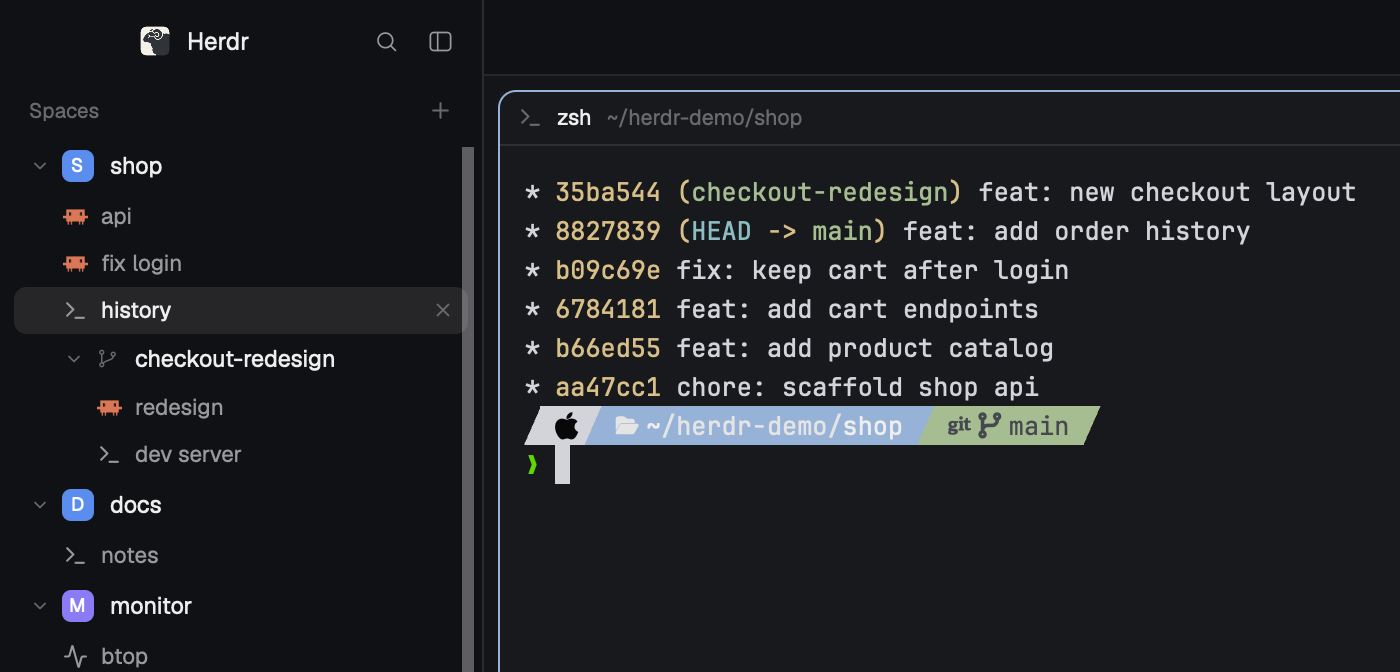
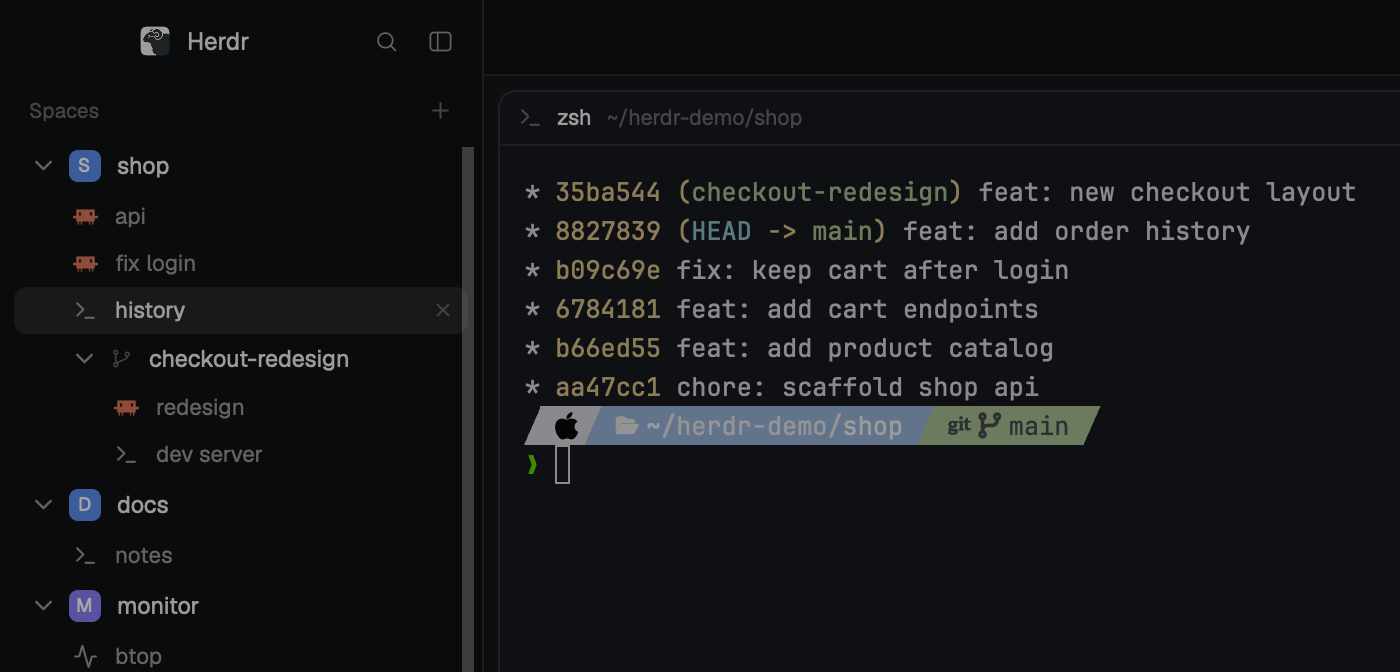
style: enlarge fold arrows in the sidebar

diff --git a/mods/nested-tabs/main.js b/mods/nested-tabs/main.js
@@ -28,7 +28,7 @@ function place(s, ps) {
 }
 const rowHeight = ({ tree }) => (tree ? 28 : 30);
 // Left offsets inside a row, so a child's icon sits under its parent's avatar.
-const CHEVRON = 14;
+const CHEVRON = 18;
 const LEAD_GAP = 5;
 const TREE_INDENT = CHEVRON + LEAD_GAP;
 const ROW_PAD = 8;
@@ -390,10 +390,11 @@ export default class Spaces extends View {
   chevron(w, t) {
     const open = this.tabsOpen(w);
     return div().id(`fold-${w.id}`).size(CHEVRON).flex_none().flex().items_center().justify_center().rounded(3)
-      .text_color(t.dim).hover((s) => s.text_color(t.foreground))
+      .text_color(t.muted).hover((s) => s.text_color(t.foreground))
       .on_mouse_down("left", (_e, cx) => cx.stop_propagation())
       .on_click((_e, cx) => { cx.stop_propagation(); this.toggleTabs(w); cx.notify(); })
-      .child(svg(`mods/workspace-chrome/chevron-${open ? "down" : "right"}.svg`).size(11));
+      // Lucide draws the arrow in the middle half of its box: 16 shows about 8 px.
+      .child(svg(`mods/workspace-chrome/chevron-${open ? "down" : "right"}.svg`).size(16));
   }
 
   // Working: spinner. Blocked or done: a dot in its color. Idle: nothing.
